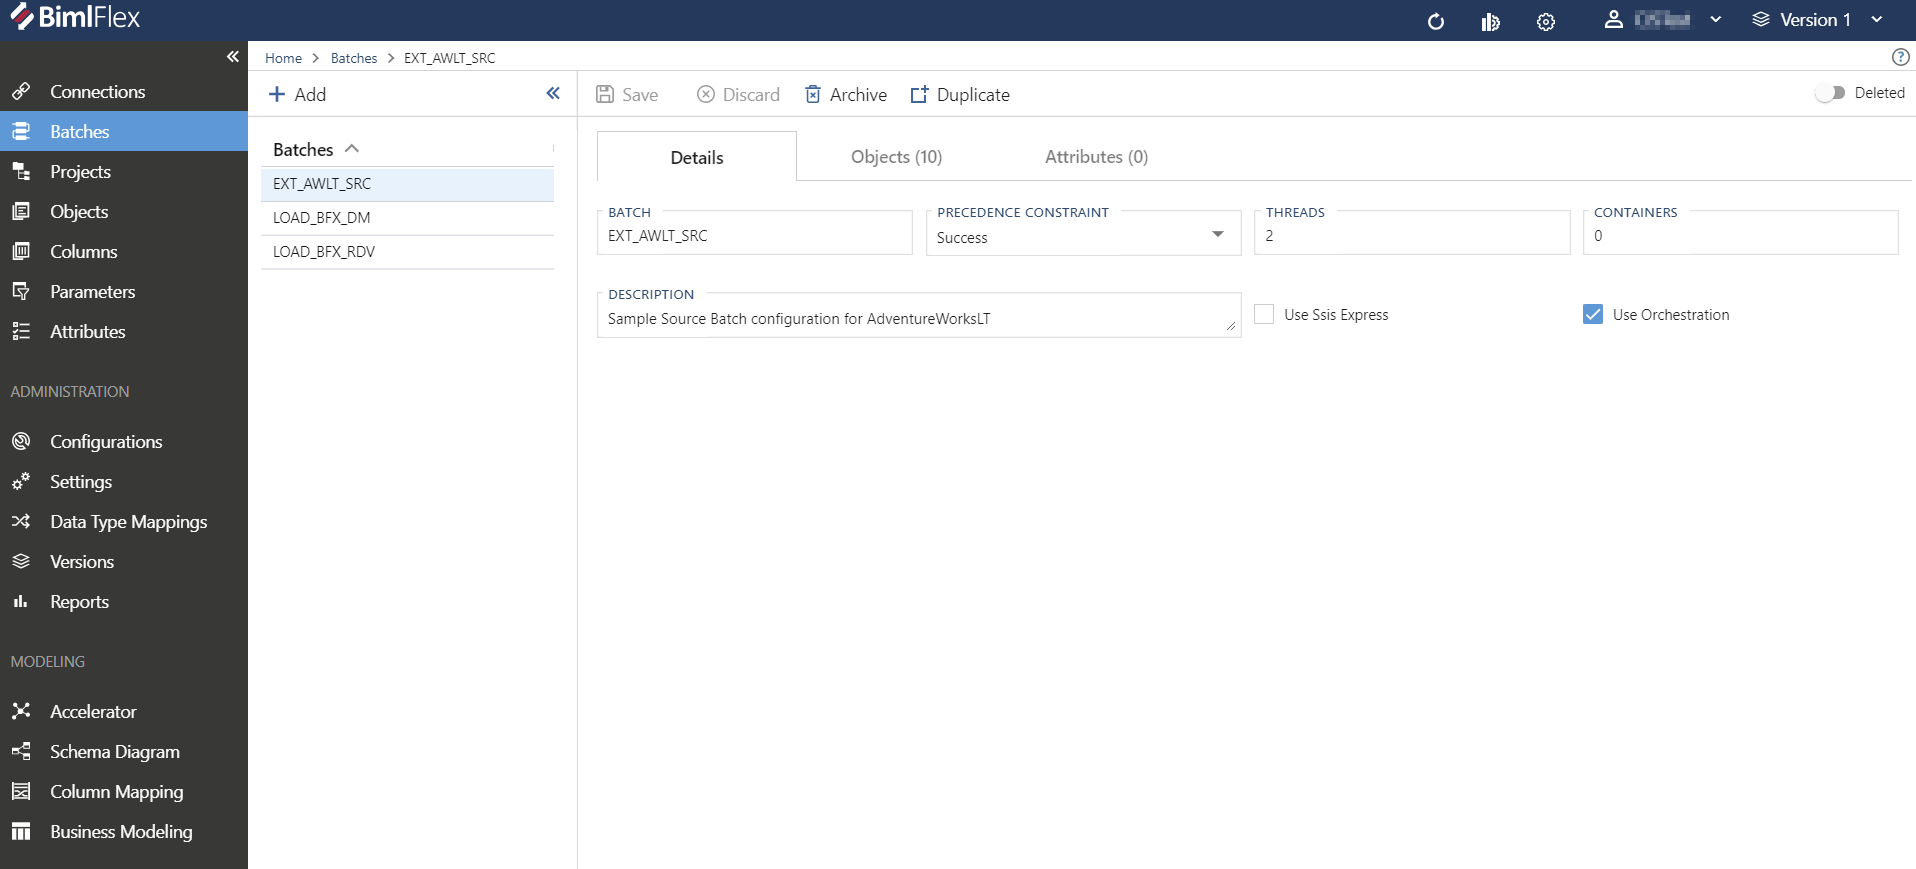
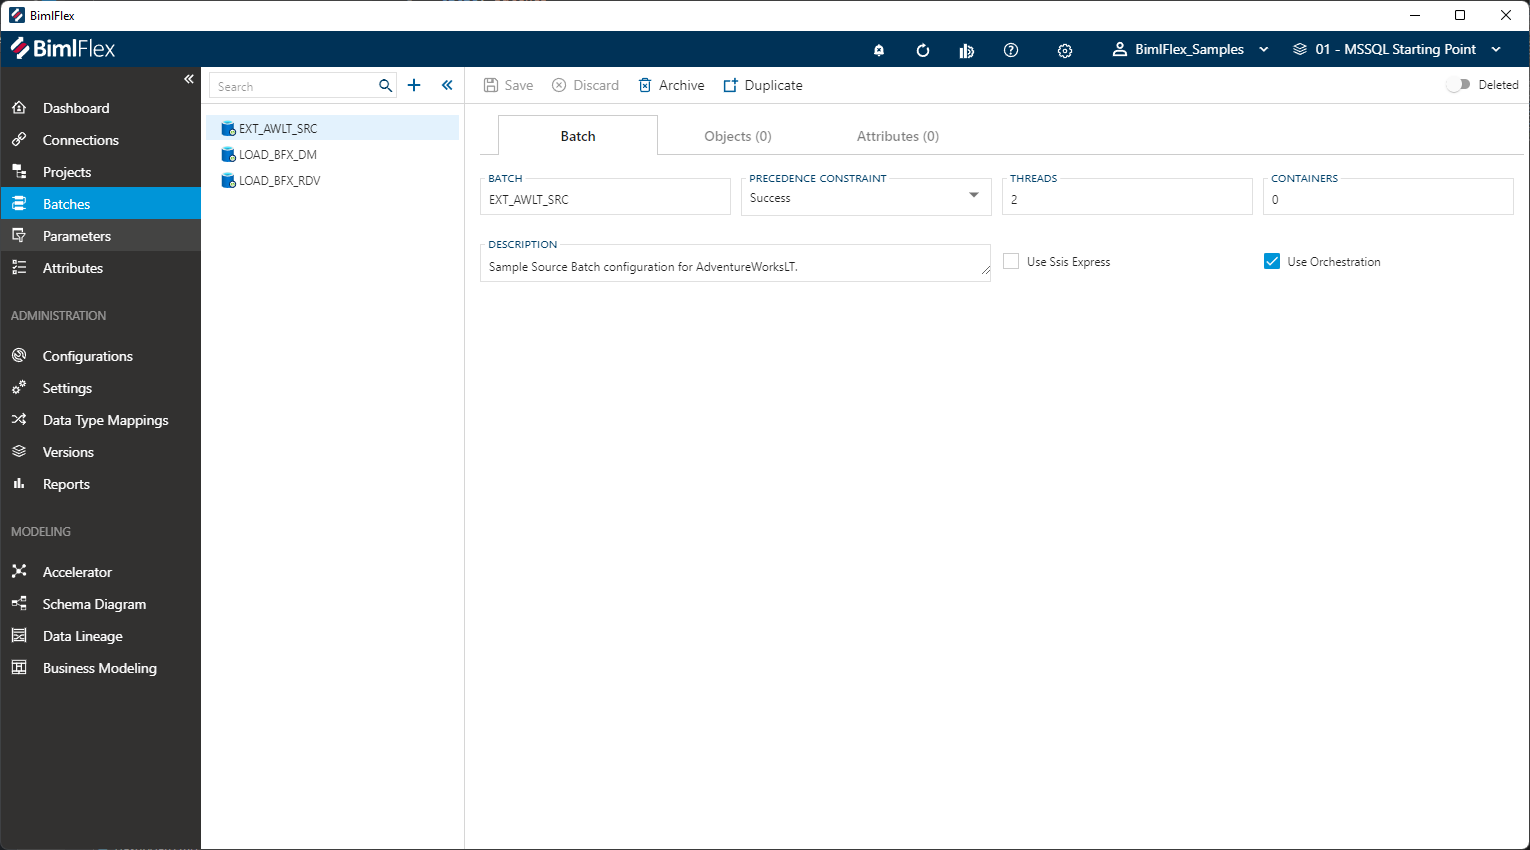
Updated on Batch Editor, Connection Editor and Project Editor
- Added Trigger documentation
- Standardization of tab names / updated images
- Removal of Batch controls, these are better documented in the reference docs and referring there is in line with other documentation of screens

diff --git a/bimlflex/metadata-editors/batches.md b/bimlflex/metadata-editors/batches.md
@@ -7,22 +7,22 @@ varigenceArticleType: Reference
 ---
 # Batch Editor
 
-BimlFlex **Batches** group and help to define an ETL/ELT workload.  They are used by **Projects** to set execution grouping.
+BimlFlex **Batches** group and help to define a data logistics (i.e. ETL/ELT) workload. They are used by **Projects** to set execution grouping.
 
-> [!IMPORTANT]
+> [!NOTE]
 > Detailed descriptions of all **Batch** fields and options are available in the [Reference Documentation](xref:bimlflex-app-reference-documentation-Batches).
 
 ## Overview
 
-The following sections describe the UI elements of the Batch Editor and how they are used to author and manage BimlFlex **Batches**.
+The following sections describe the User Interface elements of the Batch Editor and how they are used to author and manage BimlFlex **Batches**.
 
 ![BimlFlex - Batch Editor](images/bfx-batches-editor-overview.png "BimlFlex - Batch Editor")
 
-## Details Tab
+## Batch Tab
 
-The **Details Tab** focuses on general batch information and configuration.  This tab is used to define and create the **Batch** itself.
+The **Batch Tab** is the first tab in the **Batch Editor**, and it is selected by default. The batch tab focuses on general batch information and configuration. This tab is used to define and create the batch itself.
 
-### Details Tab - Action Buttons  
+### Action Buttons  
 
 ![BimlFlex Batch Editor - Action Buttons](images/bfx-batches-action-buttons.png "BimlFlex Batch Editor - Action Buttons")
 
@@ -37,26 +37,29 @@ The **Details Tab** focuses on general batch information and configuration.  Thi
 > [!NOTE]
 > A **Batch** itself can not be excluded, only deleted. If certain parts of the data solution should be excluded, then this should be applied at **Project** level in the **Project Editor**.
 
+### Triggers
+
+Azure Data Factory **Triggers** are supported in BimlFlex, for Projects that are configured to generate Azure Data Factory or Mapping Data Flows output. When a Project has either the `Azure Data Factory (ADF)` or `Azure Mapping Data Flows (ADF)` **Integration Template**, the  option to specify triggers will become available in the **Batch Editor** for the batch that is associated with the project.
+
+The generated trigger will be associated with the (batch-level) ADF Execute Pipeline for which they are specified.
+
+The Trigger feature supports `Tumbling Window` and `Scheduled` triggers to be created in ADF. Additional configurations that can be applied in the same editor are:
+
+* Name
+* Start- and End Date (timestamps)
+* Recurrence
+* Delay
+* Concurrency
+* Retry configuration
+* Runtime state
+
+![BimlFlex - Batch Editor](images/bfx-batches-editor-trigger.png "BimlFlex - Batch Editor")
+
+Additional information on trigger fields are found in the [batch reference documentation](xref:bimlflex-app-reference-documentation-Batches).
+
 ### Additional Dialogs
 
 [!include[Archive Batch Dialog](_dialog-archive-batch-single.md)]
-
-### Details Tab - Fields
-
-<img
-    src="images/bimlflex-app-editor-batches-fields.png"
-    title="Batch Editor Fields"
-/>
-
-|Field|Description|
-|-|-|
-| Batch | The name of the BimlFlex **Batch**.  This is the value that will be appended by "_Batch" and used in the naming of the batch DTSX (SSIS) or Pipeline (ADF). |
-| Precedence Constraint | BimlFlex **Batches** execute packages and the Precedence Constraint can be changed from Success to Completion to continue loading in case of individual failures. Must be a valid [Precedence Constraint](#precedence-constraints). |
-| Threads | The default number of packages that can be executed in parallel within the **Batch**. Based on the topological sort and dependencies packages are grouped into execution layers. Within each layer (Sequence Container) multiple control flows pipelines can be executed in parallel. |
-| Containers | The default number of sequence containers that can be executed within the **Batch**. Based on the topological sort and dependencies packages are grouped into execution layers. Within each layer (Sequence Container) multiple control flows pipelines can be executed in parallel. |
-| Description | Optional metadata to provide description. |
-| Use Ssis Express | Set this value to `true` when extracting data from a source that only has SQL Server Express installed. Note that with SSIS Express there is limited functionality. |
-| Use Orchestration | BimlFlex comes with an orchestration framework that will control the ability to restart a failed batch. Set this attribute to `false` if you would like to bypass the default behavior. |
 
 ### Allowed Values
 

diff --git a/bimlflex/metadata-editors/projects.md b/bimlflex/metadata-editors/projects.md
@@ -13,7 +13,7 @@ Each project requires an [**Integration Template**](xref:bimlflex-concepts-integ
 
 All **Objects** belonging to the connections configured in the project will be subject to the selected integration template. This means that, for example, if you use a connection as a source that data logistics will be generated for _all_ objects associated with this (source) connection.
 
-> [!IMPORTANT]
+> [!NOTE]
 > Detailed descriptions of all **Project** fields and options are available in the [Reference Documentation](xref:bimlflex-app-reference-documentation-Projects).
 
 ## Overview
@@ -22,9 +22,9 @@ The following sections describe the user interface elements of the **Project Edi
 
 ![BimlFlex Project Editor](images/bfx-projects-editor-overview.png "BimlFlex Project Editor")
 
-## Details Tab
+## Project Tab
 
-The **Details Tab** focuses on general **Project** information and configuration. This tab is used to define and create the **Project** itself.
+The **Project Tab** is the first tab in the **Project Editor**, and it is selected by default. The project tab focuses on general connection information and configuration. This tab is used to define and create the project itself.
 
 ### Action Buttons
 

diff --git a/bimlflex/release-notes/release-notes-2022.3.md b/bimlflex/release-notes/release-notes-2022.3.md
@@ -29,6 +29,20 @@ Build 22.2.168.0, release date: 25 May 2022
 
 ## 2022 R3 - New Features
 
+### Triggers
+
+Azure Data Factory *Triggers* are now supported in BimlFlex, for Projects that are configured to generate Azure Data Factory or Mapping Data Flows output. When a Project has either the `Azure Data Factory (ADF)` or `Azure Mapping Data Flows (ADF)` Integration Template, the Trigger option will become available in the Batch Editor for the Batch that is associated with the Project.
+
+The Trigger feature supports Tumbling Window and Scheduled triggers to be created in ADF. Additional configurations that can be applied in the same editor are:
+
+* Name
+* Start- and End Date (timestamps)
+* Recurrence
+* Delay
+* Concurrency
+* Retry configuration
+* Runtime state
+
 ## 2022 R3 - Improvements
 
 ### Various Application Improvements

diff --git a/bimlflex/metadata-editors/connections.md b/bimlflex/metadata-editors/connections.md
@@ -13,7 +13,7 @@ Additionally, a connection definition includes metadata to identify the [*Integr
 
 Connections are used in [**Projects**](xref:bimlflex-project-editor) to direct BimlFlex in generating the overall intended flow of data.
 
-> [!IMPORTANT]
+> [!NOTE]
 > Detailed descriptions of all **Connection** fields and options are available in the [Reference Documentation](xref:bimlflex-app-reference-documentation-Connections).
 
 ## Overview
